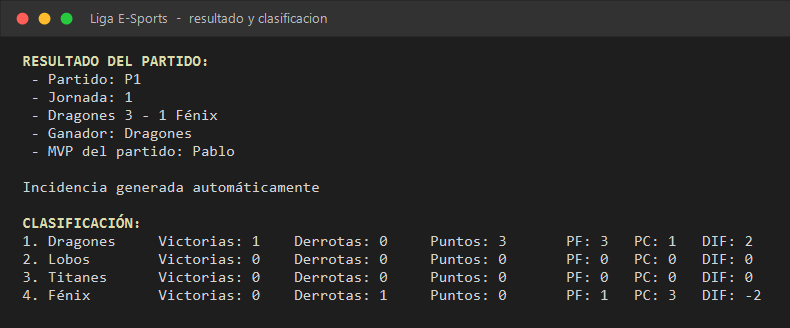
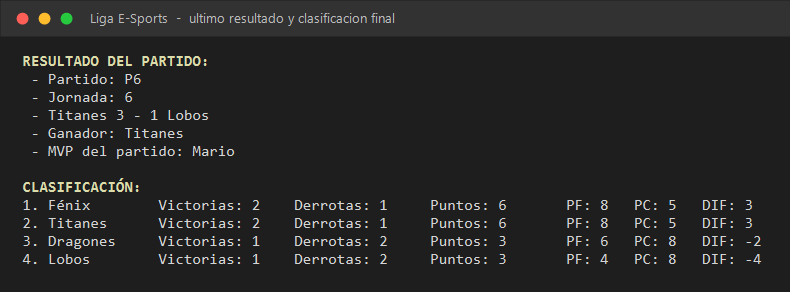
Actualizar capturas con una liga completa
Sesion de demo con 4 equipos, 40 jugadores y las 6 jornadas disputadas.

diff --git a/README.md b/README.md
@@ -24,7 +24,7 @@ Aplicación de consola con un menú interactivo que permite:
 
 ![Menú principal](docs/capturas/menu-principal.png)
 
-**Alineación titular de un equipo**
+**Alineación titular y suplentes de un equipo**
 
 ![Alineación titular](docs/capturas/plantilla.png)
 
@@ -32,7 +32,7 @@ Aplicación de consola con un menú interactivo que permite:
 
 ![Calendario](docs/capturas/calendario.png)
 
-**Resultado de un partido y clasificación**
+**Último resultado y clasificación final tras las seis jornadas**
 
 ![Resultado y clasificación](docs/capturas/clasificacion.png)
 
